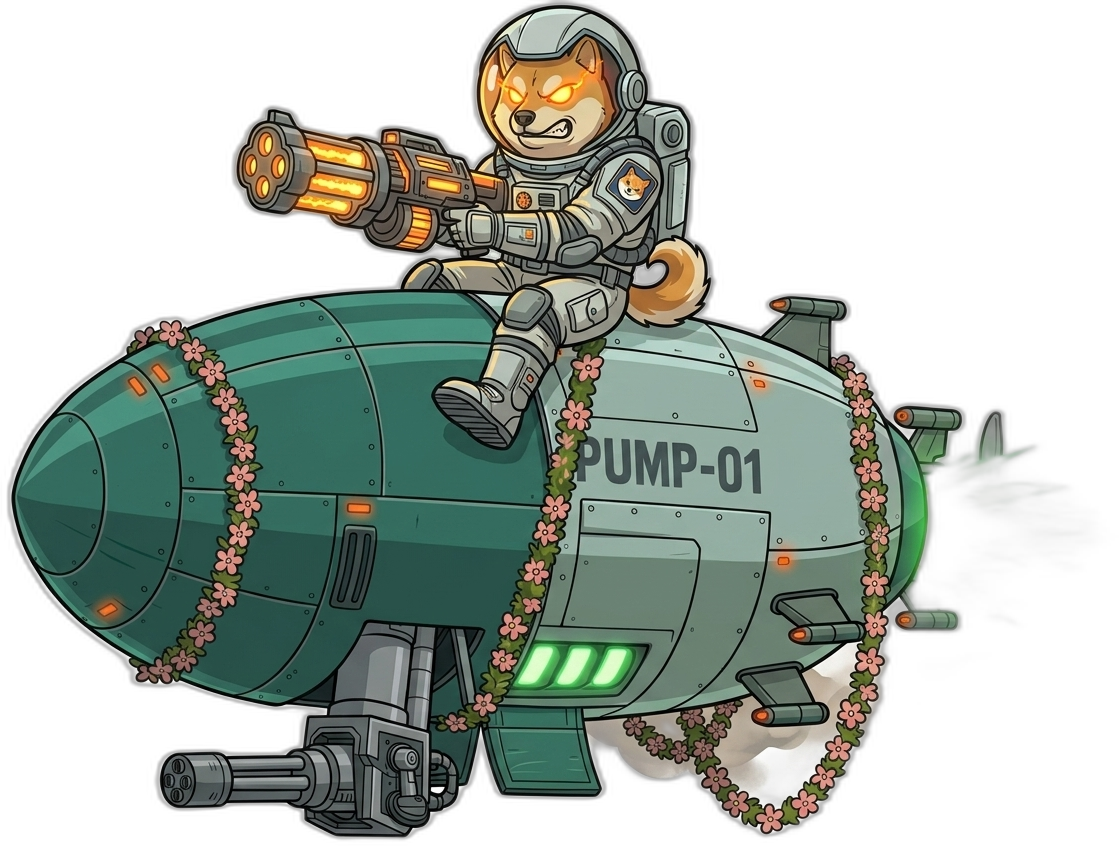
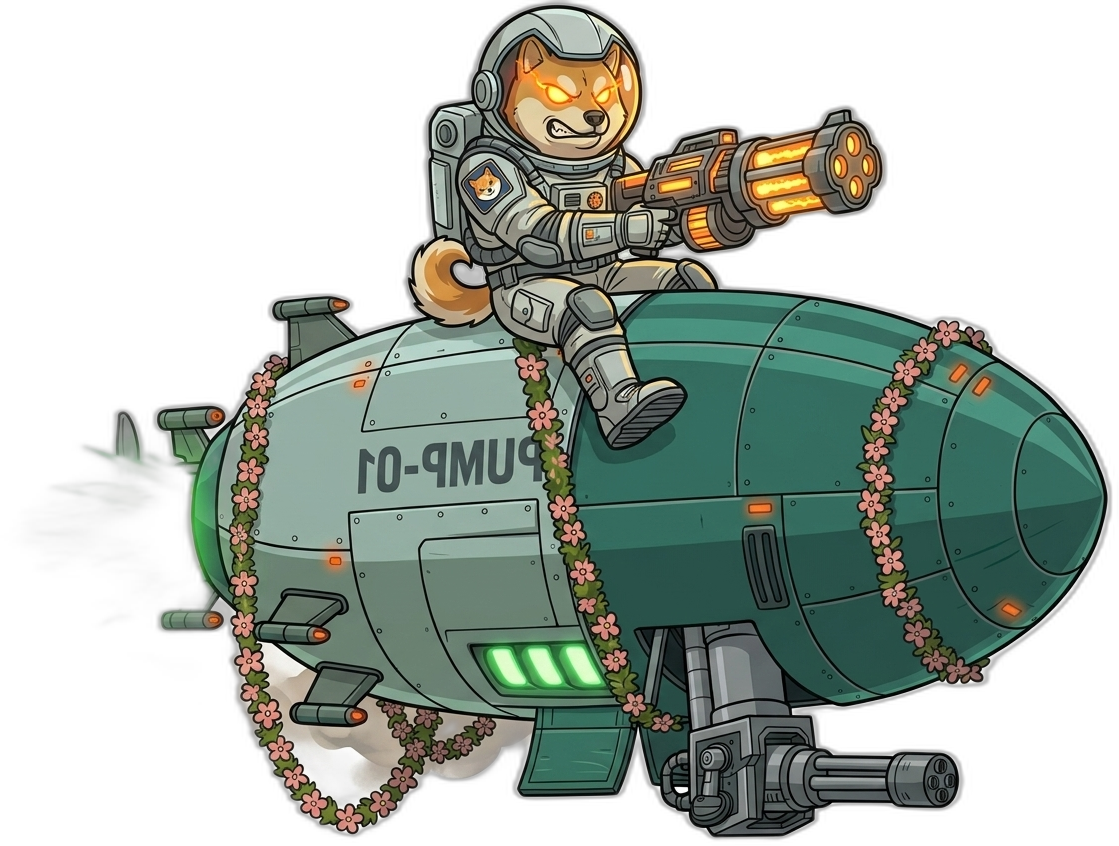
fix: flip boss-on-ship flee images to face right (toward space); v=38

diff --git a/index.html b/index.html
@@ -5,8 +5,8 @@
 <meta name="viewport" content="width=device-width, initial-scale=1.0, maximum-scale=1.0, user-scalable=no" />
 <title>Mame Survivor 🐕🔥 — Survive the Meme Coins</title>
 <meta name="description" content="Mame Survivor — survive endless waves of meme coins (Pepe, Shib, Floki, Bonk). Level up, pick power-ups, HODL to the moon!" />
-<link rel="icon" type="image/png" href="assets/favicon.png?v=37" />
-<link rel="apple-touch-icon" href="assets/favicon.png?v=37" />
+<link rel="icon" type="image/png" href="assets/favicon.png?v=38" />
+<link rel="apple-touch-icon" href="assets/favicon.png?v=38" />
 <style>
   :root{ --gold:#ffd45e; --cyan:#36d6ff; }
   *{ margin:0; padding:0; box-sizing:border-box; -webkit-tap-highlight-color:transparent; user-select:none; }
@@ -163,17 +163,17 @@
   /* per-speaker dialogue backgrounds */
   .vn-box.bg-mame{ border-color:#7fb6ff; background:
     linear-gradient(180deg,rgba(8,10,28,.78),rgba(8,10,28,.9)),
-    url('assets/dogplanet.png?v=37') center/cover no-repeat; }
+    url('assets/dogplanet.png?v=38') center/cover no-repeat; }
   .vn-box.bg-pump{ border-color:#39d98a; background:
     linear-gradient(90deg,rgba(8,22,17,.92) 38%,rgba(8,22,17,.4)),
-    url('assets/ship-pump.png?v=37') right -8px center/auto 150% no-repeat,
+    url('assets/ship-pump.png?v=38') right -8px center/auto 150% no-repeat,
     linear-gradient(180deg,#11271d,#0a160f); }
   /* split scene background: LEFT = Dog Planet (MAME's side), RIGHT = Pump.fun ship */
   .story-bg{ position:absolute; inset:0; z-index:0; display:flex; }
   .story-bg .sb-left, .story-bg .sb-right{ flex:1 1 50%; background-position:center; background-repeat:no-repeat;
     filter:brightness(.42); transition:filter .35s ease; }   /* dim until that speaker is active */
-  .story-bg .sb-left{ background-image:linear-gradient(rgba(6,8,24,.4),rgba(6,8,24,.68)),url('assets/dogplanet.png?v=37'); background-size:cover; }
-  .story-bg .sb-right{ background-color:#0a160f; background-image:linear-gradient(rgba(5,14,10,.42),rgba(5,14,10,.72)),url('assets/ship-pump.png?v=37'); background-size:contain; }
+  .story-bg .sb-left{ background-image:linear-gradient(rgba(6,8,24,.4),rgba(6,8,24,.68)),url('assets/dogplanet.png?v=38'); background-size:cover; }
+  .story-bg .sb-right{ background-color:#0a160f; background-image:linear-gradient(rgba(5,14,10,.42),rgba(5,14,10,.72)),url('assets/ship-pump.png?v=38'); background-size:contain; }
   #story.spk-left  .sb-left { filter:brightness(1.08); }     /* speaker's side lights up */
   #story.spk-right .sb-right{ filter:brightness(1.08); }
   /* third (center) character slot — Moo Deng pleading with MAME */
@@ -250,8 +250,8 @@
     <div id="charSelect" class="chars"></div>
     <div class="pick">MODE</div>
     <div id="modeSelect" class="modes">
-      <button class="mode sel" data-mode="campaign"><img src="assets/mode-campaign.png?v=37" alt="Campaign">CAMPAIGN<small>stages &amp; bosses</small></button>
-      <button class="mode" data-mode="arena"><img src="assets/mode-arena.png?v=37" alt="Arena">ARENA<small>battle · grow · rank</small></button>
+      <button class="mode sel" data-mode="campaign"><img src="assets/mode-campaign.png?v=38" alt="Campaign">CAMPAIGN<small>stages &amp; bosses</small></button>
+      <button class="mode" data-mode="arena"><img src="assets/mode-arena.png?v=38" alt="Arena">ARENA<small>battle · grow · rank</small></button>
     </div>
     <button class="btn" id="startBtn">▶ PLAY</button>
     <div class="best" id="menuBest">Best: 0:00</div>
@@ -349,7 +349,7 @@
   <button class="btn" id="overHome">← HOME</button>
 </div>
 
-<audio id="bgm" src="assets/nhacnen.mp3?v=37" loop preload="auto"></audio>
+<audio id="bgm" src="assets/nhacnen.mp3?v=38" loop preload="auto"></audio>
 
 <button id="homeBtn" title="Home" style="display:none"><svg viewBox="0 0 24 24" width="20" height="20" fill="none" stroke="#fff" stroke-width="2"><path d="M3 11l9-8 9 8"/><path d="M5 10v10h14V10"/></svg></button>
 <button id="settingsBtn" title="Settings">⚙️</button>

diff --git a/js/core.js b/js/core.js
@@ -2,7 +2,7 @@
 const cv = document.getElementById('game');
 const ctx = cv.getContext('2d');
 let VW = 0, VH = 0;
-const VER = '37';                      // bump on deploy to bust browser cache of assets
+const VER = '38';                      // bump on deploy to bust browser cache of assets
 const ver = u => u + (u.includes('?')?'&':'?') + 'v=' + VER;
 function resize(){ VW = cv.width = window.innerWidth; VH = cv.height = window.innerHeight; }
 window.addEventListener('resize', resize); resize();